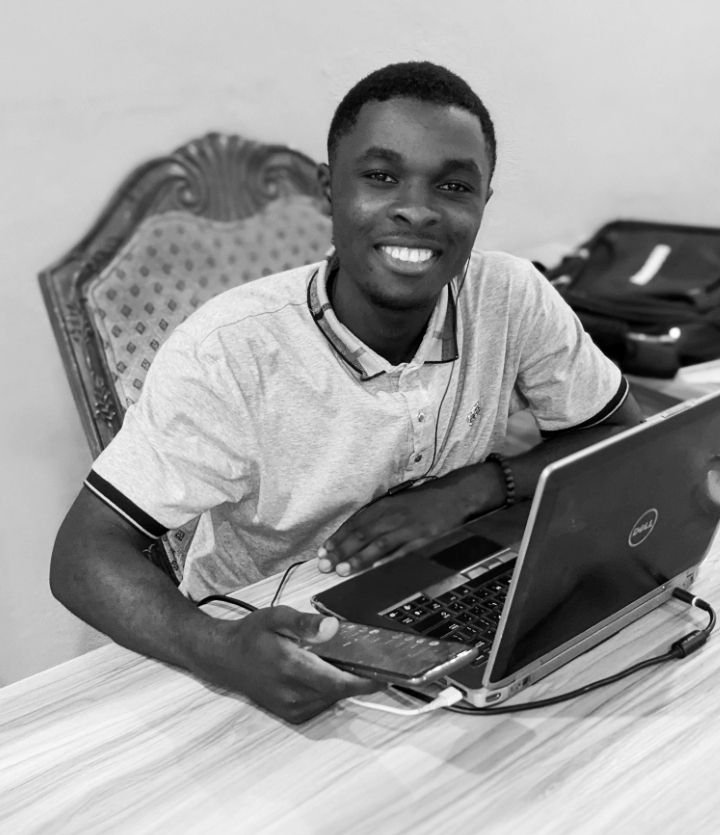
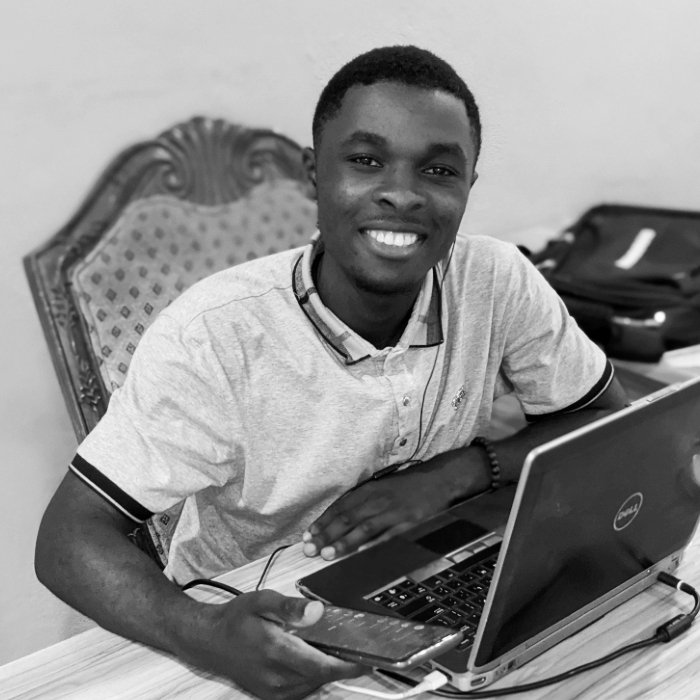
Deploy

diff --git a/index.html b/index.html
@@ -1,0 +1,89 @@
+<!DOCTYPE html>
+<html lang="en">
+
+<head>
+    <meta charset="UTF-8">
+    <meta http-equiv="X-UA-Compatible" content="IE=edge">
+    <meta name="viewport" content="width=device-width, initial-scale=1.0">
+    <meta name="description" content="Rushclin Takam. Tech Enthousiast">
+    <title>Rushclin Takam</title>
+
+    <!--CSS LINK-->
+    <link rel="stylesheet" href="./assets/css/style.css">
+    <link href="http://fonts.cdnfonts.com/css/poppins" rel="stylesheet">
+    <link href="http://fonts.cdnfonts.com/css/agustina" rel="stylesheet">
+    <script src="https://kit.fontawesome.com/2bce4cb3ae.js" crossorigin="anonymous"></script>
+</head>
+
+<body>
+
+    <div class="container">
+        <div class="profile-wrapper">
+            <div class="picture-wrapper">
+                <div class="picture">
+                    <img src="./assets/images/img1.jpg" alt="Rushclin Takam" width="200" height="200">
+                </div>
+            </div>
+
+            <div class="name-bio-wrapper">
+                <div class="name">
+                    <div class="content">
+                        < Rushclin Takam />
+                    </div>
+                </div>
+                <div class="bio">
+                    <div class="content">Developpeur Web frontend et mobile Junior</div>
+                </div>
+            </div>
+        </div>
+        <section class="body-section socials">
+            <!--Je mets les lien socials ici-->
+            <ul>
+                <li>
+                    <a href="https://facebook.com/rushclin.takam.1" target="_blank">
+                        <i class="fab fa-facebook icon"></i>
+                    </a>
+                </li>
+                <li>
+                    <a href="" target="_blank">
+                        <i class="fab fa-instagram icon"></i>
+                    </a>
+                </li>
+                <li>
+                    <a href="https://twitter.com/RushclinTakam" target="_blank">
+                        <i class="fab fa-twitter icon"></i>
+                    </a>
+                </li>
+                <li>
+                    <a href="https://wa.me/690139627" target="_blank">
+                        <i class="fab fa-whatsapp icon"></i>
+                    </a>
+                </li>
+            </ul>
+
+        </section>
+
+        <section class="body-section text-box">
+            <div class="title">Mon profil</div>
+            <div class="description">
+                Hello, je suis Rushclin Takam. Jeune étudiant et passioné des nouvèlles technologies, je sais méttre mon
+                savoir faire au service du client. Mes champs de compétences sont multiples, j'ai une aptitude à faire
+                face
+                aux
+                problèmes aussi bien en programmation que dans la vie courante.
+            </div>
+        </section>
+
+        <footer class="footer">
+            <!--Je dois mettre le copyright ici-->
+            <div class="footer-wrapper">
+                <div class="content">Copyright &copy; 2022 Rushclin Takam</div>
+            </div>
+        </footer>
+    </div>
+
+    <!--JS LINK-->
+    <script src="./assets/js/script.js"></script>
+</body>
+
+</html>

diff --git a/assets/css/style.css b/assets/css/style.css
@@ -1,0 +1,133 @@
+/* Rushclin Takam Copyright 2022 */
+
+:root {
+
+    /* COLORS */
+
+    --primary-color: #1C1B29;
+
+
+    /* TYPOGRAPHY*/
+}
+
+/* RESET */
+
+*,
+*::after,
+*::before {
+    margin: 0;
+    padding: 0;
+    box-sizing: border-box;
+}
+
+body {
+    background-color: var(--primary-color);
+}
+
+html {
+    scroll-behavior: smooth;
+}
+
+a {
+    color: #ffff;
+    text-decoration: none;
+}
+
+.container {
+    width: 100%;
+}
+
+.profile-wrapper {
+    background-image: url('./../images/back.png');
+    background-size: cover;
+    background-repeat: no-repeat;
+    height: 250px;
+    color: #ffff;
+    position: relative;
+    padding: 20px 0;
+    display: block;
+    text-align: center;
+    margin-bottom: 100px;
+}
+
+.picture-wrapper {
+    position: absolute;
+    top: 150px;
+    width: 100%;
+}
+
+.profile-wrapper .picture img {
+    border-radius: 100%;
+}
+
+.name-bio-wrapper .name {
+    font-size: 40px;
+    font-family: Agustina;
+}
+
+.name-bio-wrapper .bio {
+    font-size: 15px;
+    font-family: Poppins;
+}
+
+.body-section {
+    padding-top: 20px;
+    text-align: center;
+}
+
+.body-section ul {
+    display: flex;
+    width: 100%;
+    justify-content: center;
+    list-style: none;
+}
+
+.body-section ul li {
+    margin: 0 10px;
+}
+
+.body-section ul li:nth-child(1) a:is(:hover, :focus) {
+    color: #4267B2;
+}
+
+.body-section ul li:nth-child(2) a:is(:hover, :focus) {
+    color: #405DE6;
+}
+
+.body-section ul li:nth-child(3) a:is(:hover, :focus) {
+    color: #1DA1F2;
+}
+
+.body-section ul li:nth-child(4) a:is(:hover, :focus) {
+    color: #128C7E;
+}
+
+.icon {
+    font-size: 30px;
+}
+
+.body-section.text-box .title {
+    font-weight: 800;
+    color: #ffff;
+    padding: 10px 0;
+    font-family: Poppins;
+}
+
+.body-section.text-box .description {
+    font-family: Poppins;
+    font-size: 15px;
+    font-weight: 300;
+    color: #ffff;
+    padding-inline: 50px;
+}
+
+.footer {
+    margin-top: 50px;
+    padding: 20px 0;
+    justify-content: center;
+    display: flex;
+    color: #fff;
+    font-size: 10px;
+    font-family: Poppins;
+    font-weight: 200;
+}
